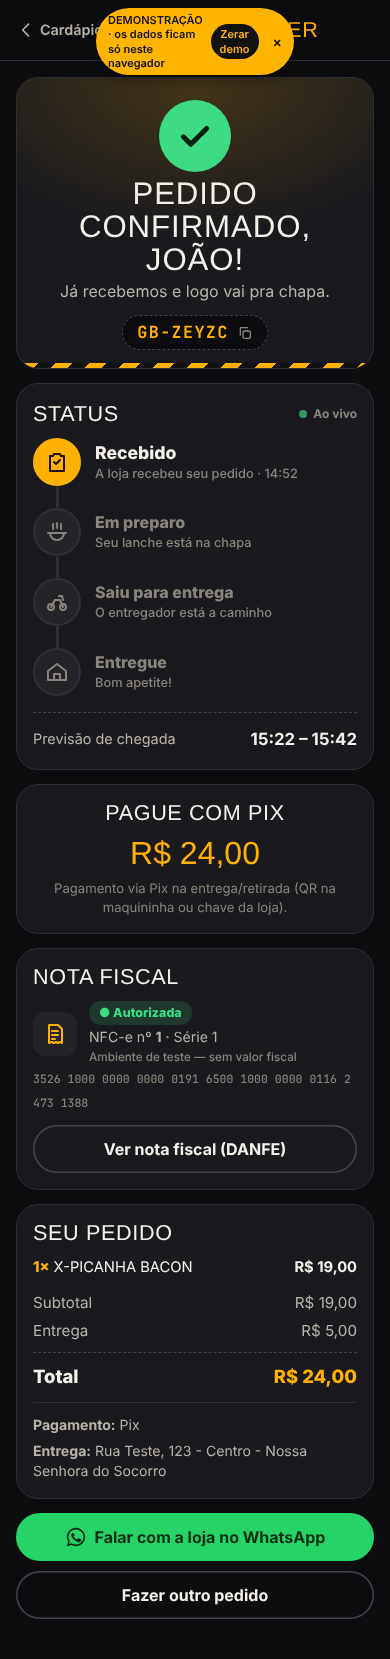
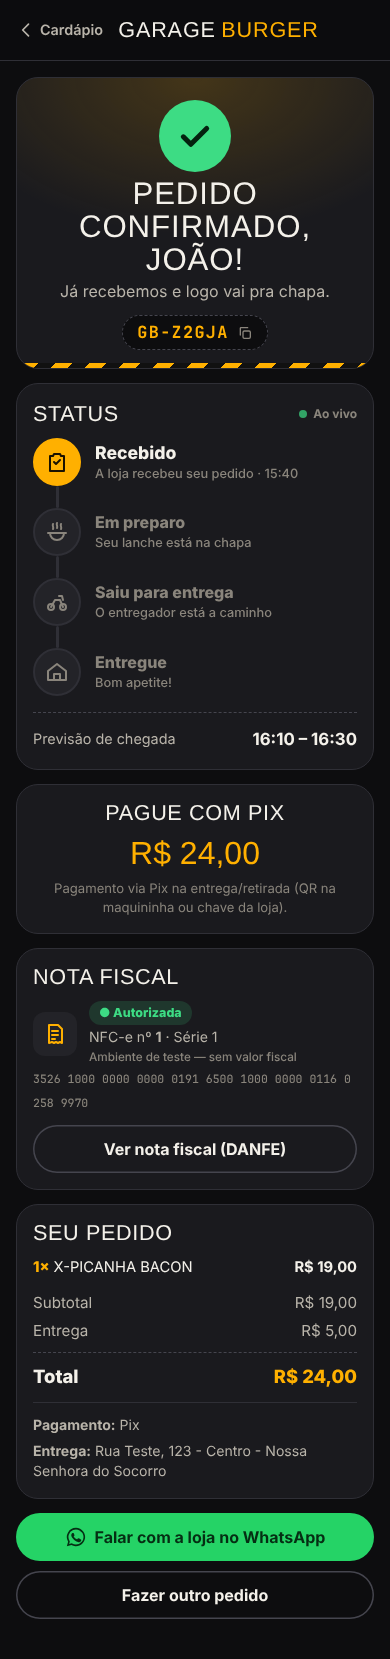
Versão HTML sem avisos de demonstração nem dica de login
Claude-Session: https://claude.ai/code/session_01JucCrR1hG7sVabnjJwxoyP

diff --git a/demo/runtime.js b/demo/runtime.js
@@ -12,7 +12,7 @@ function saveCookies(c) { try { localStorage.setItem(COOKIES, JSON.stringify(c))
 
 const ready = initSqlJs().then(SQL => {
   globalThis.__SQL = SQL;
-  Object.assign(process.env, { ADMIN_EMAIL: 'dono@garageburger.com', ADMIN_PASSWORD: 'garage123', NODE_ENV: 'demo' });
+  Object.assign(process.env, { ADMIN_EMAIL: 'dono@garageburger.com', ADMIN_PASSWORD: 'garage123', NODE_ENV: 'production' });
   const app = require('../server.js');
   globalThis.__gbDb.save();
   return app;
@@ -124,40 +124,3 @@ new MutationObserver(muts => {
     }
   }
 }).observe(document.documentElement, { childList: true, subtree: true });
-
-// Faixa de demonstração (some sozinha) + dica de login no painel
-function banner() {
-  const form = document.getElementById('login-form');
-  if (form && !document.getElementById('gb-demo-hint')) {
-    const hint = document.createElement('p');
-    hint.id = 'gb-demo-hint';
-    hint.setAttribute('style', 'margin:0;padding:10px 12px;border-radius:10px;background:rgba(255,180,0,.12);border:1px dashed #ffb400;color:#ffcf5a;font:500 13px/1.4 system-ui,sans-serif');
-    hint.innerHTML = 'Demonstração: entre com <b>dono@garageburger.com</b> e a senha <b>garage123</b>.';
-    const err = document.getElementById('login-error');
-    form.insertBefore(hint, err || form.lastElementChild);
-    const em = form.querySelector('input[type=email]'); if (em && !em.value) em.value = 'dono@garageburger.com';
-  }
-  if (document.getElementById('gb-demo-bar')) return;
-  const bar = document.createElement('div');
-  bar.id = 'gb-demo-bar';
-  bar.setAttribute('style', 'position:fixed;left:50%;top:8px;transform:translateX(-50%);z-index:2147483647;max-width:calc(100% - 16px);font:600 11px/1.3 system-ui,sans-serif;color:#111;background:#ffb400;border-radius:999px;padding:5px 6px 5px 12px;box-shadow:0 4px 14px rgba(0,0,0,.4);display:flex;gap:8px;align-items:center;transition:opacity .4s');
-  bar.innerHTML = '<span>DEMONSTRAÇÃO · os dados ficam só neste navegador</span>';
-  const btn = (label, fn, extra = '') => {
-    const b = document.createElement('button');
-    b.textContent = label;
-    b.setAttribute('style', 'font:inherit;border:0;border-radius:999px;padding:3px 9px;cursor:pointer;' + extra);
-    b.addEventListener('click', fn);
-    return b;
-  };
-  bar.append(
-    btn('Zerar demo', () => {
-      if (!confirm('Apagar pedidos e alterações desta demonstração?')) return;
-      ['gb_demo_db', COOKIES, 'gb_cart', 'gb_last_order'].forEach(k => { try { localStorage.removeItem(k); } catch {} });
-      location.reload();
-    }, 'background:#111;color:#ffb400'),
-    btn('×', () => bar.remove(), 'background:none;color:#111;font-size:14px;padding:0 6px'),
-  );
-  document.body.appendChild(bar);
-  setTimeout(() => { bar.style.opacity = '0'; setTimeout(() => bar.remove(), 450); }, 7000);
-}
-if (document.readyState === 'loading') document.addEventListener('DOMContentLoaded', banner); else banner();

diff --git a/demo/build.js b/demo/build.js
@@ -22,7 +22,7 @@ esbuild.buildSync({
     helmet: S('noop.js'), 'cookie-parser': S('noop.js'), 'express-rate-limit': S('noop.js'),
   },
   inject: [path.join(__dirname, 'buffer-inject.js')],
-  define: { __dirname: '"/srv"', 'require.main': 'undefined', 'process.env.NODE_ENV': '"demo"' },
+  define: { __dirname: '"/srv"', 'require.main': 'undefined', 'process.env.NODE_ENV': '"production"' },
   logLevel: 'warning',
 });
 
